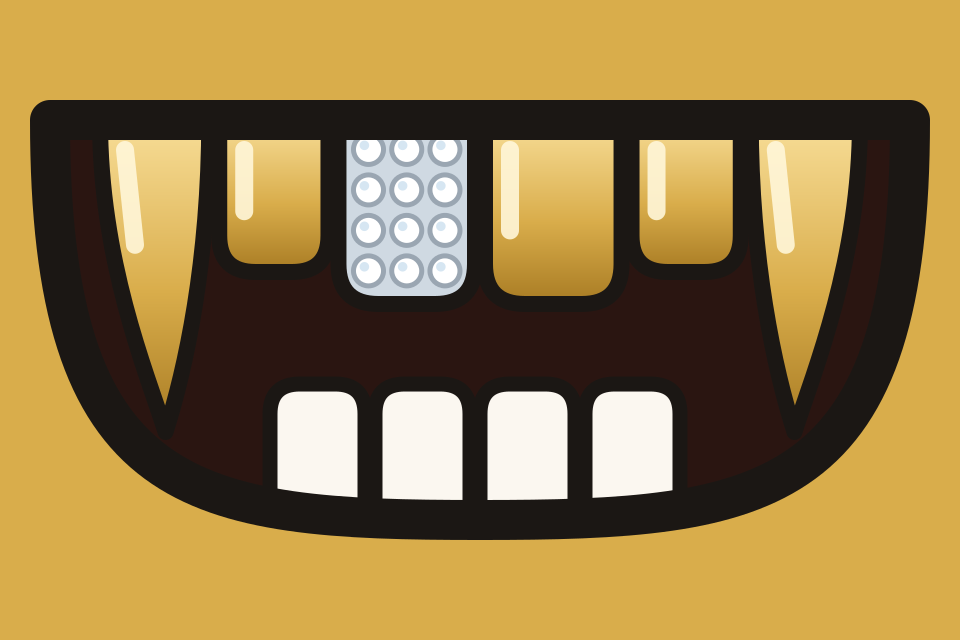
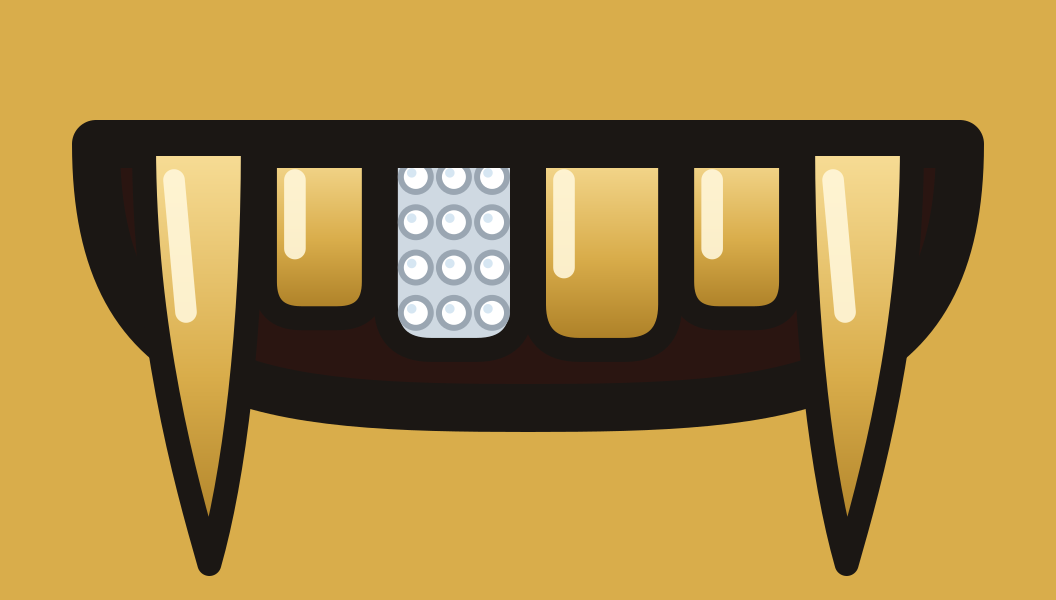
Mascot round 3: no bottom teeth, smaller mouth, fangs over the lip
Claude-Session: https://claude.ai/code/session_01CsKqmQb1fcvU3uVFSjXsG3

diff --git a/scripts/mascot-round3.ts b/scripts/mascot-round3.ts
@@ -39,33 +39,36 @@ function eye(kind: Eye, x: number, y: number) {
 
 /**
  * The grill, built like the hero image: separate gold caps with rounded tips
- * hanging from the upper lip, long tapered fangs on the canines, the centre
- * tooth iced out (white, with a pavé of stones), natural white teeth below.
+ * hanging from the upper lip, the centre tooth iced out (pavé), and long
+ * tapered fangs on the canines that hang over the lower lip, so the mouth
+ * itself can stay small.
  */
 function grin(face: Face, id: string) {
   const { y, open, tilt = 0 } = face.mouth;
-  // A wide, square-cornered open mouth so the fangs at the ends have room.
-  const m0 = 57;
-  const m1 = 143;
+  // A compact, square-cornered grin; the fangs overhang it.
+  const m0 = 64;
+  const m1 = 136;
   const mouth = `M${m0} ${y}L${m1} ${y}C${m1} ${y + open * 0.95} ${m1 - 14} ${y + open} 100 ${y + open}C${m0 + 14} ${y + open} ${m0} ${y + open * 0.95} ${m0} ${y}Z`;
-  const x0 = m0 + 5;
-  const x1 = m1 - 5;
+  const x0 = m0 + 4;
+  const x1 = m1 - 4;
   const gap = 1;
   // Fang, lateral, central (iced), central, lateral, fang.
   const widths = [12, 12, 15, 15, 12, 12];
   const scale = (x1 - x0 - gap * (widths.length - 1)) / widths.reduce((sum, w) => sum + w, 0);
   let cursor = x0;
+  const fangs: string[] = [];
   const teeth = widths.map((raw, index) => {
     const w = raw * scale;
     const x = cursor;
     cursor += w + gap;
-    const outline = `stroke="${INK}" stroke-width="1.6" stroke-linejoin="round"`;
+    const outline = `stroke="${INK}" stroke-width="2" stroke-linejoin="round"`;
     if (index === 0 || index === widths.length - 1) {
-      const length = open * 0.78;
+      const length = open + 13;
       const tip = x + w * (index === 0 ? 0.6 : 0.4);
-      return `<path d="M${x} ${y}L${x + w} ${y}C${x + w} ${y + length * 0.45} ${tip + 2} ${y + length * 0.8} ${tip} ${y + length}C${tip - 2} ${y + length * 0.8} ${x} ${y + length * 0.45} ${x} ${y}Z" fill="url(#gold)" ${outline}/><path d="M${x + 2.5} ${y + 3}L${x + 3.5} ${y + length * 0.4}" stroke="#fff6d8" stroke-width="1.8" stroke-linecap="round" opacity=".9"/>`;
+      fangs.push(`<path d="M${x} ${y}L${x + w} ${y}C${x + w} ${y + length * 0.45} ${tip + 2} ${y + length * 0.8} ${tip} ${y + length}C${tip - 2} ${y + length * 0.8} ${x} ${y + length * 0.45} ${x} ${y}Z" fill="url(#gold)" ${outline}/><path d="M${x + 2.5} ${y + 3}L${x + 3.5} ${y + length * 0.4}" stroke="#fff6d8" stroke-width="1.8" stroke-linecap="round" opacity=".9"/>`);
+      return '';
     }
-    const h = open * (index === 2 || index === 3 ? 0.46 : 0.38);
+    const h = open * (index === 2 || index === 3 ? 0.78 : 0.66);
     const r = Math.min(4, w / 3);
     const cap = `M${x} ${y}L${x + w} ${y}L${x + w} ${y + h - r}Q${x + w} ${y + h} ${x + w - r} ${y + h}L${x + r} ${y + h}Q${x} ${y + h} ${x} ${y + h - r}Z`;
     if (index === 2) {
@@ -75,20 +78,12 @@ function grin(face: Face, id: string) {
     }
     return `<path d="${cap}" fill="url(#gold)" ${outline}/><path d="M${x + 2.5} ${y + 3}L${x + 2.5} ${y + h * 0.6}" stroke="#fff6d8" stroke-width="1.8" stroke-linecap="round" opacity=".9"/>`;
   });
-  const lower = [0, 1, 2, 3]
-    .map((i) => {
-      const w = 9.5;
-      const x = 100 - 2 * (w + 1) + i * (w + 1);
-      const h = open * 0.26;
-      const top = y + open * 0.92 - h;
-      return `<path d="M${x} ${top + 3}Q${x} ${top} ${x + 3} ${top}L${x + w - 3} ${top}Q${x + w} ${top} ${x + w} ${top + 3}L${x + w} ${top + h + 4}L${x} ${top + h + 4}Z" fill="#fbf7f0" stroke="${INK}" stroke-width="1.5"/>`;
-    })
-    .join('');
   return `<g transform="rotate(${tilt} 100 ${y})">
 <clipPath id="m${id}"><path d="${mouth}"/></clipPath>
 <path d="${mouth}" fill="#2a1511"/>
-<g clip-path="url(#m${id})">${lower}${teeth.join('')}</g>
+<g clip-path="url(#m${id})">${teeth.join('')}</g>
 <path d="${mouth}" fill="none" stroke="${INK}" stroke-width="4" stroke-linejoin="round"/>
+${fangs.join('')}
 </g>`;
 }
 
@@ -102,28 +97,28 @@ ${eye(face.eyes[0], 80, 64)}${eye(face.eyes[1], 120, 64)}${brows}${grin(face, id
 }
 
 const faces: Face[] = [
-  { name: 'Grin', idea: 'Friendly default: open grin, two fangs', eyes: ['round', 'round'], mouth: { y: 88, open: 40 } },
+  { name: 'Grin', idea: 'Friendly default: open grin, two fangs', eyes: ['round', 'round'], mouth: { y: 92, open: 22 } },
   {
     name: 'Smirk',
     idea: 'One side up, one brow: confident',
     eyes: ['round', 'round'],
     brows: [[70, 46, 88, 48], [112, 44, 130, 38]],
-    mouth: { y: 89, open: 36, tilt: -6 },
+    mouth: { y: 92, open: 20, tilt: -6 },
   },
   {
     name: 'Cool',
     idea: 'Heavy lids, slow grin: flashy, unbothered',
     eyes: ['lidded', 'lidded'],
-    mouth: { y: 89, open: 34 },
+    mouth: { y: 92, open: 18 },
   },
-  { name: 'Wink', idea: 'A wink as the signature (like Freddie)', eyes: ['round', 'wink'], mouth: { y: 88, open: 40, tilt: -3 } },
-  { name: 'Hype', idea: 'Eyes shut, big laugh: celebrating', eyes: ['happy', 'happy'], mouth: { y: 86, open: 50 } },
+  { name: 'Wink', idea: 'A wink as the signature (like Freddie)', eyes: ['round', 'wink'], mouth: { y: 92, open: 22, tilt: -3 } },
+  { name: 'Hype', idea: 'Eyes shut, big laugh: celebrating', eyes: ['happy', 'happy'], mouth: { y: 90, open: 30 } },
   {
     name: 'Boss',
     idea: 'Low brows, wide grin: the craftsman',
     eyes: ['round', 'round'],
     brows: [[68, 48, 90, 54], [110, 54, 132, 48]],
-    mouth: { y: 90, open: 34 },
+    mouth: { y: 93, open: 18 },
   },
 ];
 
@@ -155,9 +150,9 @@ ${cells}
 </svg>`;
 
 /** The grin up close, to judge the teeth themselves. */
-const closeup = `<svg xmlns="http://www.w3.org/2000/svg" viewBox="52 76 96 64" width="960" height="640">
+const closeup = `<svg xmlns="http://www.w3.org/2000/svg" viewBox="56 80 88 50" width="1056" height="600">
 <defs><linearGradient id="gold" x1="0" y1="0" x2="0" y2="1">${GOLD}</linearGradient></defs>
-<rect x="52" y="76" width="96" height="64" fill="#d9ad4b"/>${grin(faces[0], 'close')}</svg>`;
+<rect x="56" y="80" width="88" height="50" fill="#d9ad4b"/>${grin(faces[0], 'close')}</svg>`;
 
 async function main() {
   mkdirSync(OUT, { recursive: true });

diff --git a/docs/brand/mascot/README.md b/docs/brand/mascot/README.md
@@ -73,9 +73,9 @@ Source: `scripts/mascot-round2.ts`. What it shows:
 ## Round 3: the face
 
 Chosen body: **F, Root fang**. The grin carries the grillz, built like the
-hero image: separate gold caps with rounded tips, long tapered gold fangs on
-the canines, the centre tooth iced out in pavé, natural white teeth below,
-in a wide open mouth so they read even at 64px (avatar size).
+hero image: separate gold caps with rounded tips, the centre tooth iced out
+in pavé, and long tapered gold fangs that hang over the lower lip. No bottom
+teeth, so the mouth stays small and the fangs do the talking, even at 64px.
 
 ![Round 3 faces](round-3-faces.png)
 
